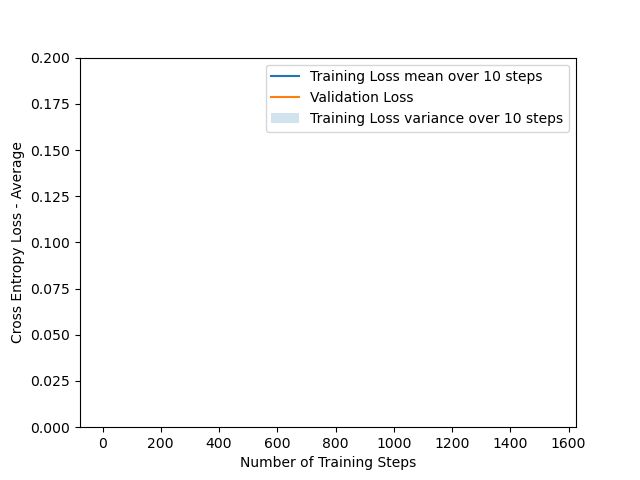
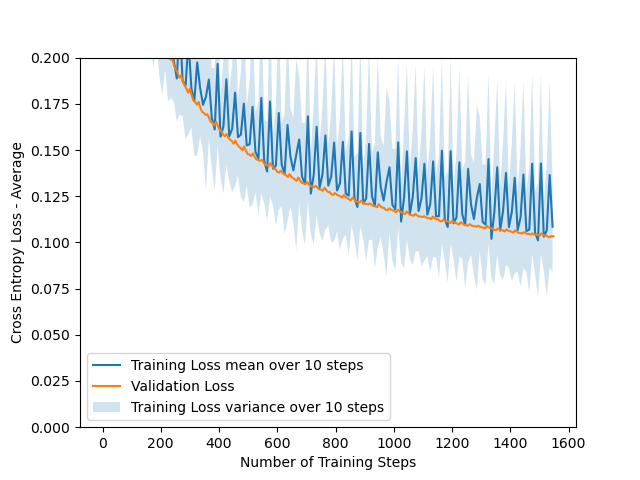
working

Changed region(s): [[0.25, 0.125, 0.875, 0.5938], [0.125, 0.75, 0.625, 0.875]]

diff --git a/assignment1/task2.py b/assignment1/task2.py
@@ -36,10 +36,11 @@ class LogisticTrainer(BaseTrainer):
         """
         y_hat = model.forward(X_batch)
         model.backward(X_batch,y_hat,Y_batch)
-        
+        model.w -= 0.01*model.grad
 
         # TODO: Implement this function (task 2b)
         loss = cross_entropy_loss(Y_batch,y_hat)
+        print(loss)
         return loss
 
     def validation_step(self):
